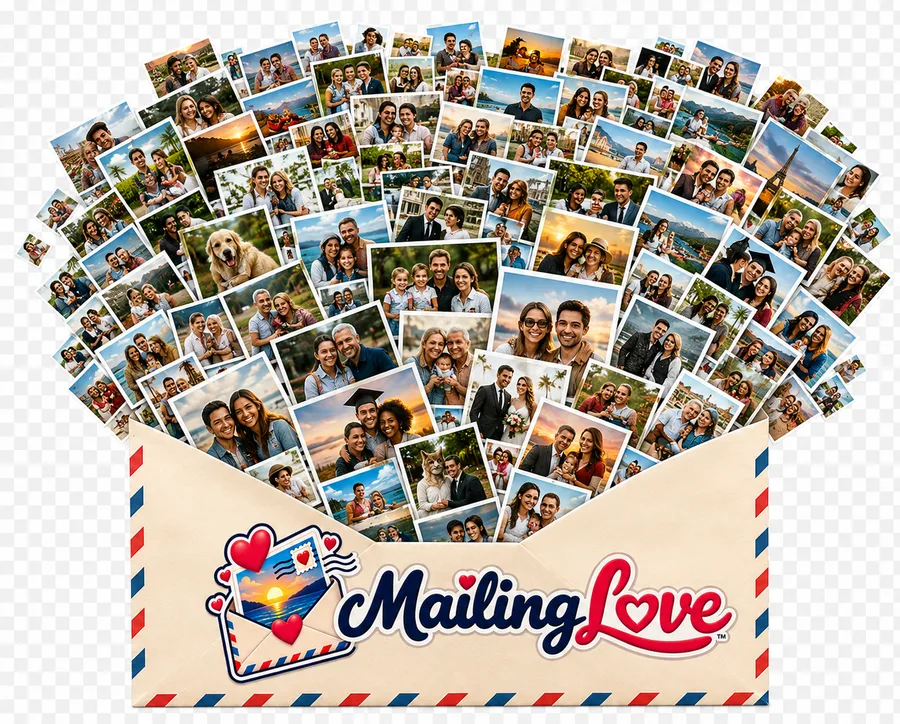
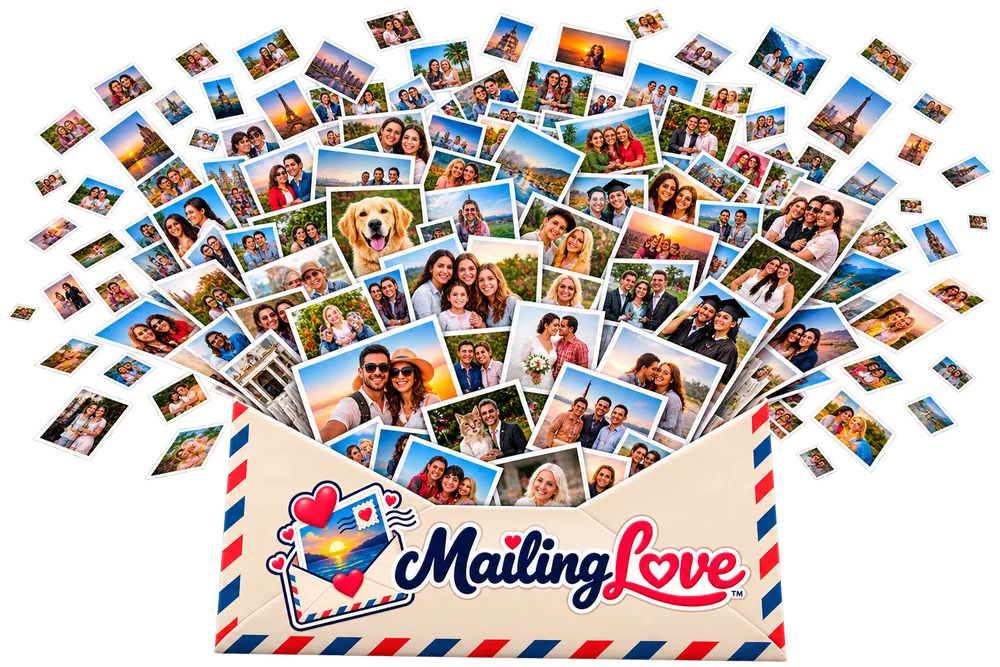
Photo prints: new collage image, fills the drop zone, 22% opacity
Replaced public/photos-collage.webp with the newer MailingLove
envelope collage; the ::before now covers the whole "Choose photos"
area (cover, inset 0) at 0.22 opacity (0.32 on hover).

diff --git a/src/App.css b/src/App.css
@@ -1152,9 +1152,9 @@
 .pp__drop::before {
   content: '';
   position: absolute;
-  inset: 6%;
-  background: url('/photos-collage.webp') center/contain no-repeat;
-  opacity: 0.14;
+  inset: 0;
+  background: url('/photos-collage.webp') center/cover no-repeat;
+  opacity: 0.22;
   pointer-events: none;
 }
 .pp__drop > * {
@@ -1165,7 +1165,7 @@
   border-color: var(--rose);
 }
 .pp__drop:hover::before {
-  opacity: 0.22;
+  opacity: 0.32;
 }
 
 .pp__zoom {
